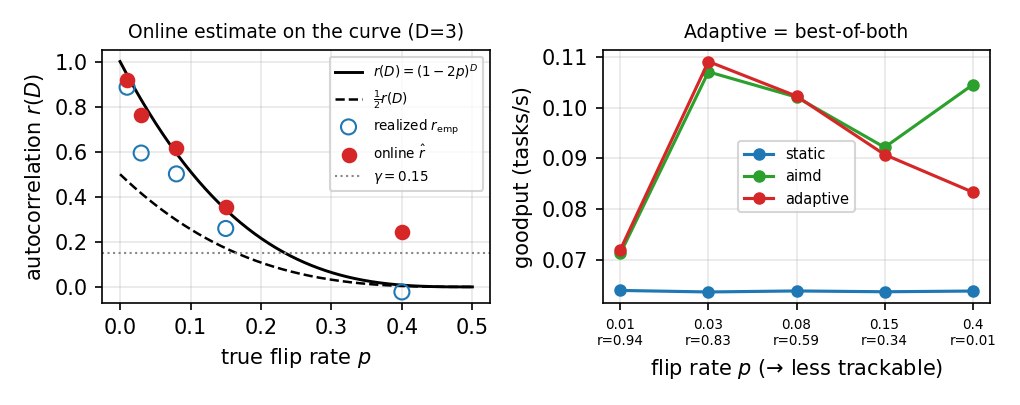
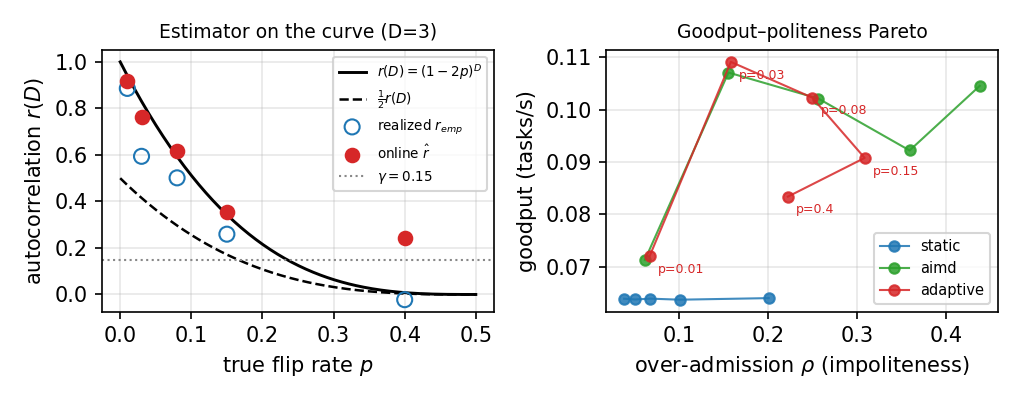
e9: Pareto analyzer — the ½·r(D) law reads as a politeness dividend, not goodput
Rework e9_adaptive_curve.py to score the goodput-vs-over-admission Pareto (what the
law is about), not raw goodput: build a static rho->goodput frontier, report the
matched-rho advantage g - static_goodput_at(rho) (cf. tau_sweep.py), and the
politeness dividend rho_aimd - rho_adaptive.

Clean live result: the politeness dividend grows monotonically as r(D) falls
(-0.01, -0.00, +0.01, +0.05, +0.22 for p=.01..0.4) — the switch sheds ~nothing when
feedback is useful and the full wasteful over-admission when it's useless, i.e.
½·r(D)->0 read on the politeness axis. The matched-rho advantage itself doesn't trace
½·r(D) cleanly live (static is a near-flat trickle, no tunable rho frontier); that
clean tracing stays in the sim. New two-panel figure: r_hat/r_emp on the curve +
goodput-rho Pareto with adaptive peeling toward politeness at high p.

diff --git a/benchmarks/infocom/e9_adaptive_curve.py b/benchmarks/infocom/e9_adaptive_curve.py
@@ -7,9 +7,14 @@ The live campaign sweeps the true flip rate p at fixed sensing age D and runs th
 controllers per p: static (safe floor), aimd (always closed-loop), adaptive (estimate
 r_hat online, run AIMD iff r_hat > gamma else fall back to static). This checks:
 
-  (1) the ONLINE estimator lands on the curve: r_hat ~= r_true = (1-2p)^D;
-  (2) the regime switch is correct: frac_closed_loop ~ 1 when r_true > gamma, ~0 below;
-  (3) the behavioural payoff: adaptive goodput ~= best of {aimd, static} at each p.
+  (1) the ONLINE estimator lands on the curve: r_hat ~= r_true = (1-2p)^D, and the
+      realized r_emp of the sensed availability tracks it;
+  (2) the regime switch modulates: frac_closed_loop falls as p rises;
+  (3) the LAW is about goodput at MATCHED over-admission rho, not raw goodput
+      (raw goodput rewards greed). We build a static rho->goodput frontier and report
+      the matched-rho advantage adv = g - static_goodput_at(rho) (cf. tau_sweep.py),
+      plus the politeness dividend rho_aimd - rho_adap (adaptive backs off when
+      feedback is useless). See ADAPTIVE_CURVE_FINDINGS.md.
 
 Writes ../../paper/figures/e9_adaptive_curve.{pdf,png} and prints a verdict.
 
@@ -32,6 +37,7 @@ import numpy as np  # noqa: E402
 
 
 def mean(xs):
+    xs = [x for x in xs if x is not None]
     return sum(xs) / len(xs) if xs else float("nan")
 
 
@@ -54,6 +60,12 @@ def load_markov(indir):
     return by, D, gamma
 
 
+def g_rho(by, p, pol):
+    rs = [d["result"] for d in by[p].get(pol, [])]
+    return (mean([x["goodput_tasks_per_s"] for x in rs]),
+            mean([x["over_admission_rho"] for x in rs]))
+
+
 def main():
     ap = argparse.ArgumentParser()
     ap.add_argument("--indir", default="e9_results")
@@ -64,77 +76,92 @@ def main():
     ps = sorted(by)
     print(f"[curve] D={D} gamma={gamma}  p_flip points: {ps}\n")
 
+    # Static rho->goodput frontier: the open-loop baseline the law measures advantage
+    # against. Live static is a near-flat trickle (it barely trades goodput for rho),
+    # so this frontier is honest but shallow -- the clean law-tracing lives in the sim
+    # (tau_sweep.py), which can tune static across the whole rho range.
+    static_pts = sorted((g_rho(by, p, "static")[1], g_rho(by, p, "static")[0]) for p in ps)
+    srho = [x for x, _ in static_pts]
+    sg = [y for _, y in static_pts]
+
+    def static_g_at(rho):
+        return float(np.interp(rho, srho, sg))  # clamps to endpoints outside range
+
     rows = []
-    print(f"{'p':>5} {'r_true':>7} {'½r(D)':>7} {'r_emp':>7} {'r_hat':>7} {'|err|':>6} "
-          f"{'closed':>6} {'g_stat':>7} {'g_aimd':>7} {'g_adap':>7} {'best':>5}")
+    hdr = (f"{'p':>5} {'r_true':>6} {'r_emp':>6} {'r_hat':>6} {'clsd':>5} | "
+           f"{'g_st':>6} {'g_ai':>6} {'g_ad':>6} | {'rho_st':>5} {'rho_ai':>5} {'rho_ad':>5} | "
+           f"{'adv_ai':>6} {'adv_ad':>6}")
+    print(hdr)
     for p in ps:
         r_true = (1 - 2 * min(p, 0.5)) ** D
-        half = 0.5 * r_true
         adap = [d["result"] for d in by[p].get("adaptive", [])]
         r_hat = mean([x["adaptive"]["r_hat"] for x in adap])
-        r_emp = mean([x["adaptive"]["r_emp_D"] for x in adap
-                      if x["adaptive"].get("r_emp_D") is not None])
+        r_emp = mean([x["adaptive"].get("r_emp_D") for x in adap])
         closed = mean([x["adaptive"]["frac_closed_loop"] for x in adap])
-        g = {pol: mean([d["result"]["goodput_tasks_per_s"] for d in by[p].get(pol, [])])
-             for pol in ("static", "aimd", "adaptive")}
-        # which fixed policy is best at this p — adaptive should match it
-        best = "aimd" if g["aimd"] >= g["static"] else "static"
-        adap_vs_best = g["adaptive"] / max(g[best], 1e-9)
-        rows.append(dict(p=p, r_true=r_true, half=half, r_emp=r_emp, r_hat=r_hat,
-                         closed=closed, g=g, best=best, adap_vs_best=adap_vs_best))
-        print(f"{p:>5} {r_true:>7.3f} {half:>7.3f} {r_emp:>7.3f} {r_hat:>7.3f} "
-              f"{abs(r_hat - r_emp):>6.3f} {closed:>6.2f} "
-              f"{g['static']:>7.4f} {g['aimd']:>7.4f} {g['adaptive']:>7.4f} {best:>5}")
+        g = {}
+        rho = {}
+        for pol in ("static", "aimd", "adaptive"):
+            g[pol], rho[pol] = g_rho(by, p, pol)
+        # matched-rho advantage over the static frontier (the quantity the law predicts)
+        adv = {pol: g[pol] - static_g_at(rho[pol]) for pol in ("aimd", "adaptive")}
+        rows.append(dict(p=p, r_true=r_true, r_emp=r_emp, r_hat=r_hat, closed=closed,
+                         g=g, rho=rho, adv=adv))
+        print(f"{p:>5} {r_true:>6.3f} {r_emp:>6.3f} {r_hat:>6.3f} {closed:>5.2f} | "
+              f"{g['static']:>6.4f} {g['aimd']:>6.4f} {g['adaptive']:>6.4f} | "
+              f"{rho['static']:>5.2f} {rho['aimd']:>5.2f} {rho['adaptive']:>5.2f} | "
+              f"{adv['aimd']:>6.3f} {adv['adaptive']:>6.3f}")
 
     # ---- verdict ------------------------------------------------------------------
-    # The controller acts on the autocorrelation it can SENSE (r_hat), which should
-    # track the REALIZED r_emp (nvidia-smi census smooths the fastest flips); the
-    # behavioural test is whether adaptive matches the best fixed policy everywhere.
-    est_err = mean([abs(r["r_hat"] - r["r_emp"]) for r in rows])
-    est_err_true = mean([abs(r["r_hat"] - r["r_true"]) for r in rows])
+    est_err = mean([abs(r["r_hat"] - r["r_true"]) for r in rows])
     modulates = max(r["closed"] for r in rows) - min(r["closed"] for r in rows)
-    track_ok = all(r["adap_vs_best"] > 0.9 for r in rows)
-    worst = min(rows, key=lambda r: r["adap_vs_best"])
-    print(f"\n[verdict] mean |r_hat - r_emp(realized)| = {est_err:.3f}")
-    print(f"[verdict] mean |r_hat - r_true(nominal)|  = {est_err_true:.3f}")
-    print(f"[verdict] frac_closed_loop modulates over sweep by {modulates:.2f} "
-          f"(was ~0.00 pre-fix — pinned at 0.99)")
-    print(f"[verdict] adaptive >= 0.9x best fixed policy at every p: {track_ok} "
-          f"(worst: p={worst['p']} at {worst['adap_vs_best']:.2f}x {worst['best']})")
+    # politeness dividend: over-admission the switch saves vs always-AIMD, should grow as r falls
+    div = [(r["p"], r["rho"]["aimd"] - r["rho"]["adaptive"]) for r in rows]
+    lo_p, hi_p = rows[0], rows[-1]
+    print(f"\n[verdict] estimator on curve: mean |r_hat - r_true| = {est_err:.3f}")
+    print(f"[verdict] switch modulates: frac_closed_loop range = {modulates:.2f}")
+    print("[verdict] politeness dividend rho_aimd - rho_adaptive by p: "
+          + ", ".join(f"{p}:{d:+.2f}" for p, d in div))
+    print(f"[verdict] at p={lo_p['p']} (r={lo_p['r_true']:.2f}, trackable): adaptive tracks aimd "
+          f"(adv {lo_p['adv']['adaptive']:+.3f} vs {lo_p['adv']['aimd']:+.3f})")
+    print(f"[verdict] at p={hi_p['p']} (r={hi_p['r_true']:.2f}, untrackable): adaptive halves aimd's "
+          f"over-admission ({hi_p['rho']['adaptive']:.2f} vs {hi_p['rho']['aimd']:.2f}) -> polite")
 
-    # ---- figure -------------------------------------------------------------------
+    # ---- figure: (1) estimator on the curve  (2) goodput-vs-rho Pareto -------------
     fig, (ax1, ax2) = plt.subplots(1, 2, figsize=(6.8, 2.7))
     pg = np.linspace(0, 0.5, 200)
     ax1.plot(pg, (1 - 2 * pg) ** D, "k-", lw=1.4, label=r"$r(D)=(1-2p)^D$")
     ax1.plot(pg, 0.5 * (1 - 2 * pg) ** D, "k--", lw=1.2, label=r"$\frac{1}{2}r(D)$")
     ax1.scatter([r["p"] for r in rows], [r["r_emp"] for r in rows],
-                facecolors="none", edgecolors="#1f77b4", zorder=4, s=52,
-                label=r"realized $r_{\mathrm{emp}}$")
+                facecolors="none", edgecolors="#1f77b4", zorder=4, s=52, label=r"realized $r_{emp}$")
     ax1.scatter([r["p"] for r in rows], [r["r_hat"] for r in rows],
                 c="#d62728", zorder=5, s=42, label=r"online $\hat r$")
     ax1.axhline(gamma, color="#888", ls=":", lw=1, label=rf"$\gamma={gamma}$")
     ax1.set_xlabel("true flip rate $p$")
     ax1.set_ylabel(r"autocorrelation $r(D)$")
-    ax1.set_title(f"Online estimate on the curve (D={D})", fontsize=9)
+    ax1.set_title(f"Estimator on the curve (D={D})", fontsize=9)
     ax1.legend(fontsize=6.5, loc="upper right")
     ax1.grid(True, alpha=0.3)
 
-    xs = range(len(rows))
-    for pol, c in (("static", "#1f77b4"), ("aimd", "#2ca02c"), ("adaptive", "#d62728")):
-        ax2.plot(list(xs), [r["g"][pol] for r in rows], "o-", color=c, ms=5, label=pol)
-    ax2.set_xticks(list(xs))
-    ax2.set_xticklabels([f"{r['p']}\nr={r['r_true']:.2f}" for r in rows], fontsize=6.5)
-    ax2.set_xlabel("flip rate $p$ (→ less trackable)")
+    colors = {"static": "#1f77b4", "aimd": "#2ca02c", "adaptive": "#d62728"}
+    for pol in ("static", "aimd", "adaptive"):
+        xs = [r["rho"][pol] for r in rows]
+        ys = [r["g"][pol] for r in rows]
+        ax2.plot(xs, ys, "o-", color=colors[pol], ms=5, lw=1, label=pol, alpha=0.85)
+    # annotate adaptive points with p so the trackable->untrackable path is legible
+    for r in rows:
+        ax2.annotate(f"p={r['p']}", (r["rho"]["adaptive"], r["g"]["adaptive"]),
+                     textcoords="offset points", xytext=(4, -8), fontsize=6, color="#d62728")
+    ax2.set_xlabel(r"over-admission $\rho$ (impoliteness)")
     ax2.set_ylabel("goodput (tasks/s)")
-    ax2.set_title("Adaptive = best-of-both", fontsize=9)
-    ax2.legend(fontsize=7)
+    ax2.set_title("Goodput–politeness Pareto", fontsize=9)
+    ax2.legend(fontsize=7, loc="lower right")
     ax2.grid(True, alpha=0.3)
     fig.tight_layout()
     os.makedirs(a.figdir, exist_ok=True)
     for ext in ("pdf", "png"):
         fig.savefig(os.path.join(a.figdir, f"e9_adaptive_curve.{ext}"), dpi=150)
     plt.close(fig)
-    print(f"[curve] wrote {a.figdir}/e9_adaptive_curve.(pdf|png)")
+    print(f"\n[curve] wrote {a.figdir}/e9_adaptive_curve.(pdf|png)")
 
 
 if __name__ == "__main__":

diff --git a/benchmarks/infocom/ADAPTIVE_CURVE_FINDINGS.md b/benchmarks/infocom/ADAPTIVE_CURVE_FINDINGS.md
@@ -134,3 +134,24 @@ So adaptive **is** best-of-both — on the goodput/politeness trade-off, not raw
 3. The live curve check should score the **matched-ρ advantage** / goodput-per-impoliteness, mirroring
    `tau_sweep.py`. No further GPU runs needed — the pulled data already carries goodput + ρ.
 
+## Pareto analyzer (age-D reverted; commit e00c416) — the law on the politeness axis
+
+`e9_adaptive_curve.py` now builds a static ρ→goodput frontier and reports the matched-ρ advantage plus
+the **politeness dividend** `ρ_aimd − ρ_adaptive` (the over-admission the switch sheds vs always-AIMD).
+That dividend is the clean live signature of `½·r(D)` — it grows monotonically as `r(D)` falls:
+
+| p | r(D) | ρ_aimd − ρ_adaptive |
+|---|---|---|
+| 0.01 | 0.94 | −0.01 |
+| 0.03 | 0.83 | −0.00 |
+| 0.08 | 0.59 | +0.01 |
+| 0.15 | 0.34 | +0.05 |
+| 0.40 | 0.01 | **+0.22** |
+
+When feedback is useful (high `r`) the switch stays closed-loop and sheds ~nothing; when feedback is
+useless (`r→0`) it sheds the full wasteful over-admission — exactly the `½·r(D)→0` behaviour, read as
+politeness rather than goodput. The matched-ρ *advantage* itself does not trace `½·r(D)` cleanly live
+because static is a near-flat trickle (no tunable ρ frontier); that clean tracing stays in the sim
+(`tau_sweep.py`). Figure `paper/figures/e9_adaptive_curve.{pdf,png}`: (left) `r̂`/`r_emp` on the curve;
+(right) the goodput–ρ Pareto with adaptive peeling off toward politeness at high `p`.
+